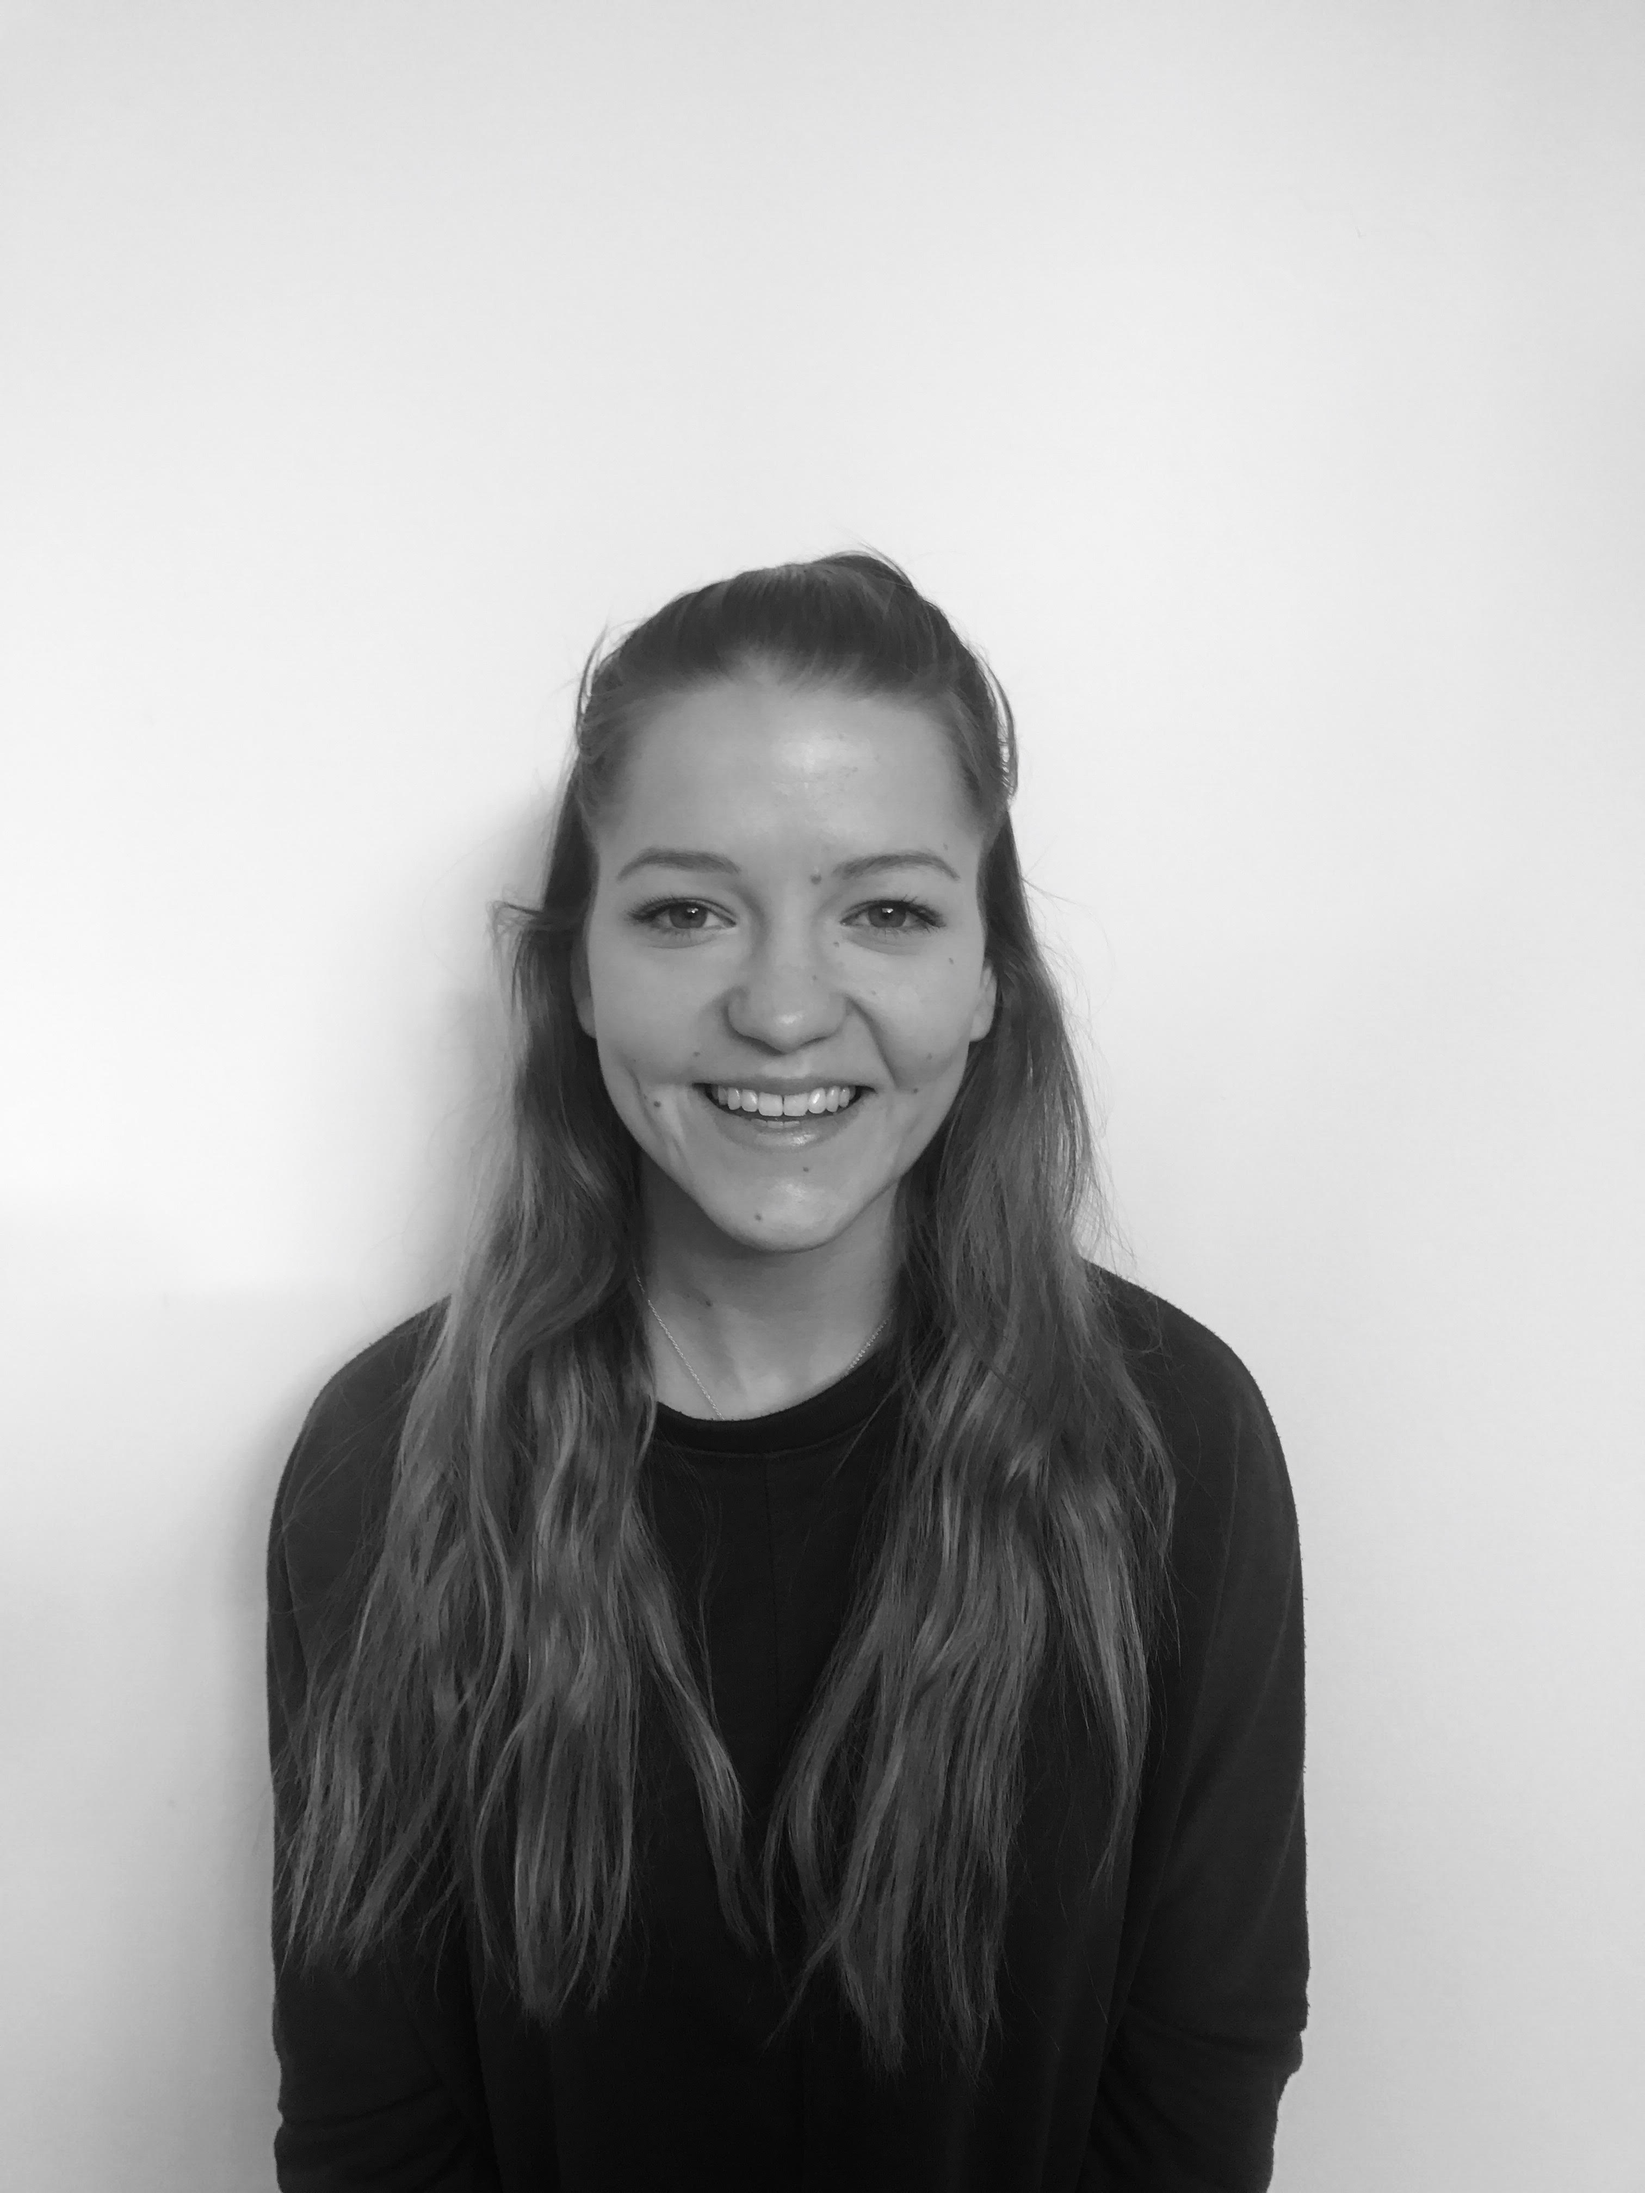
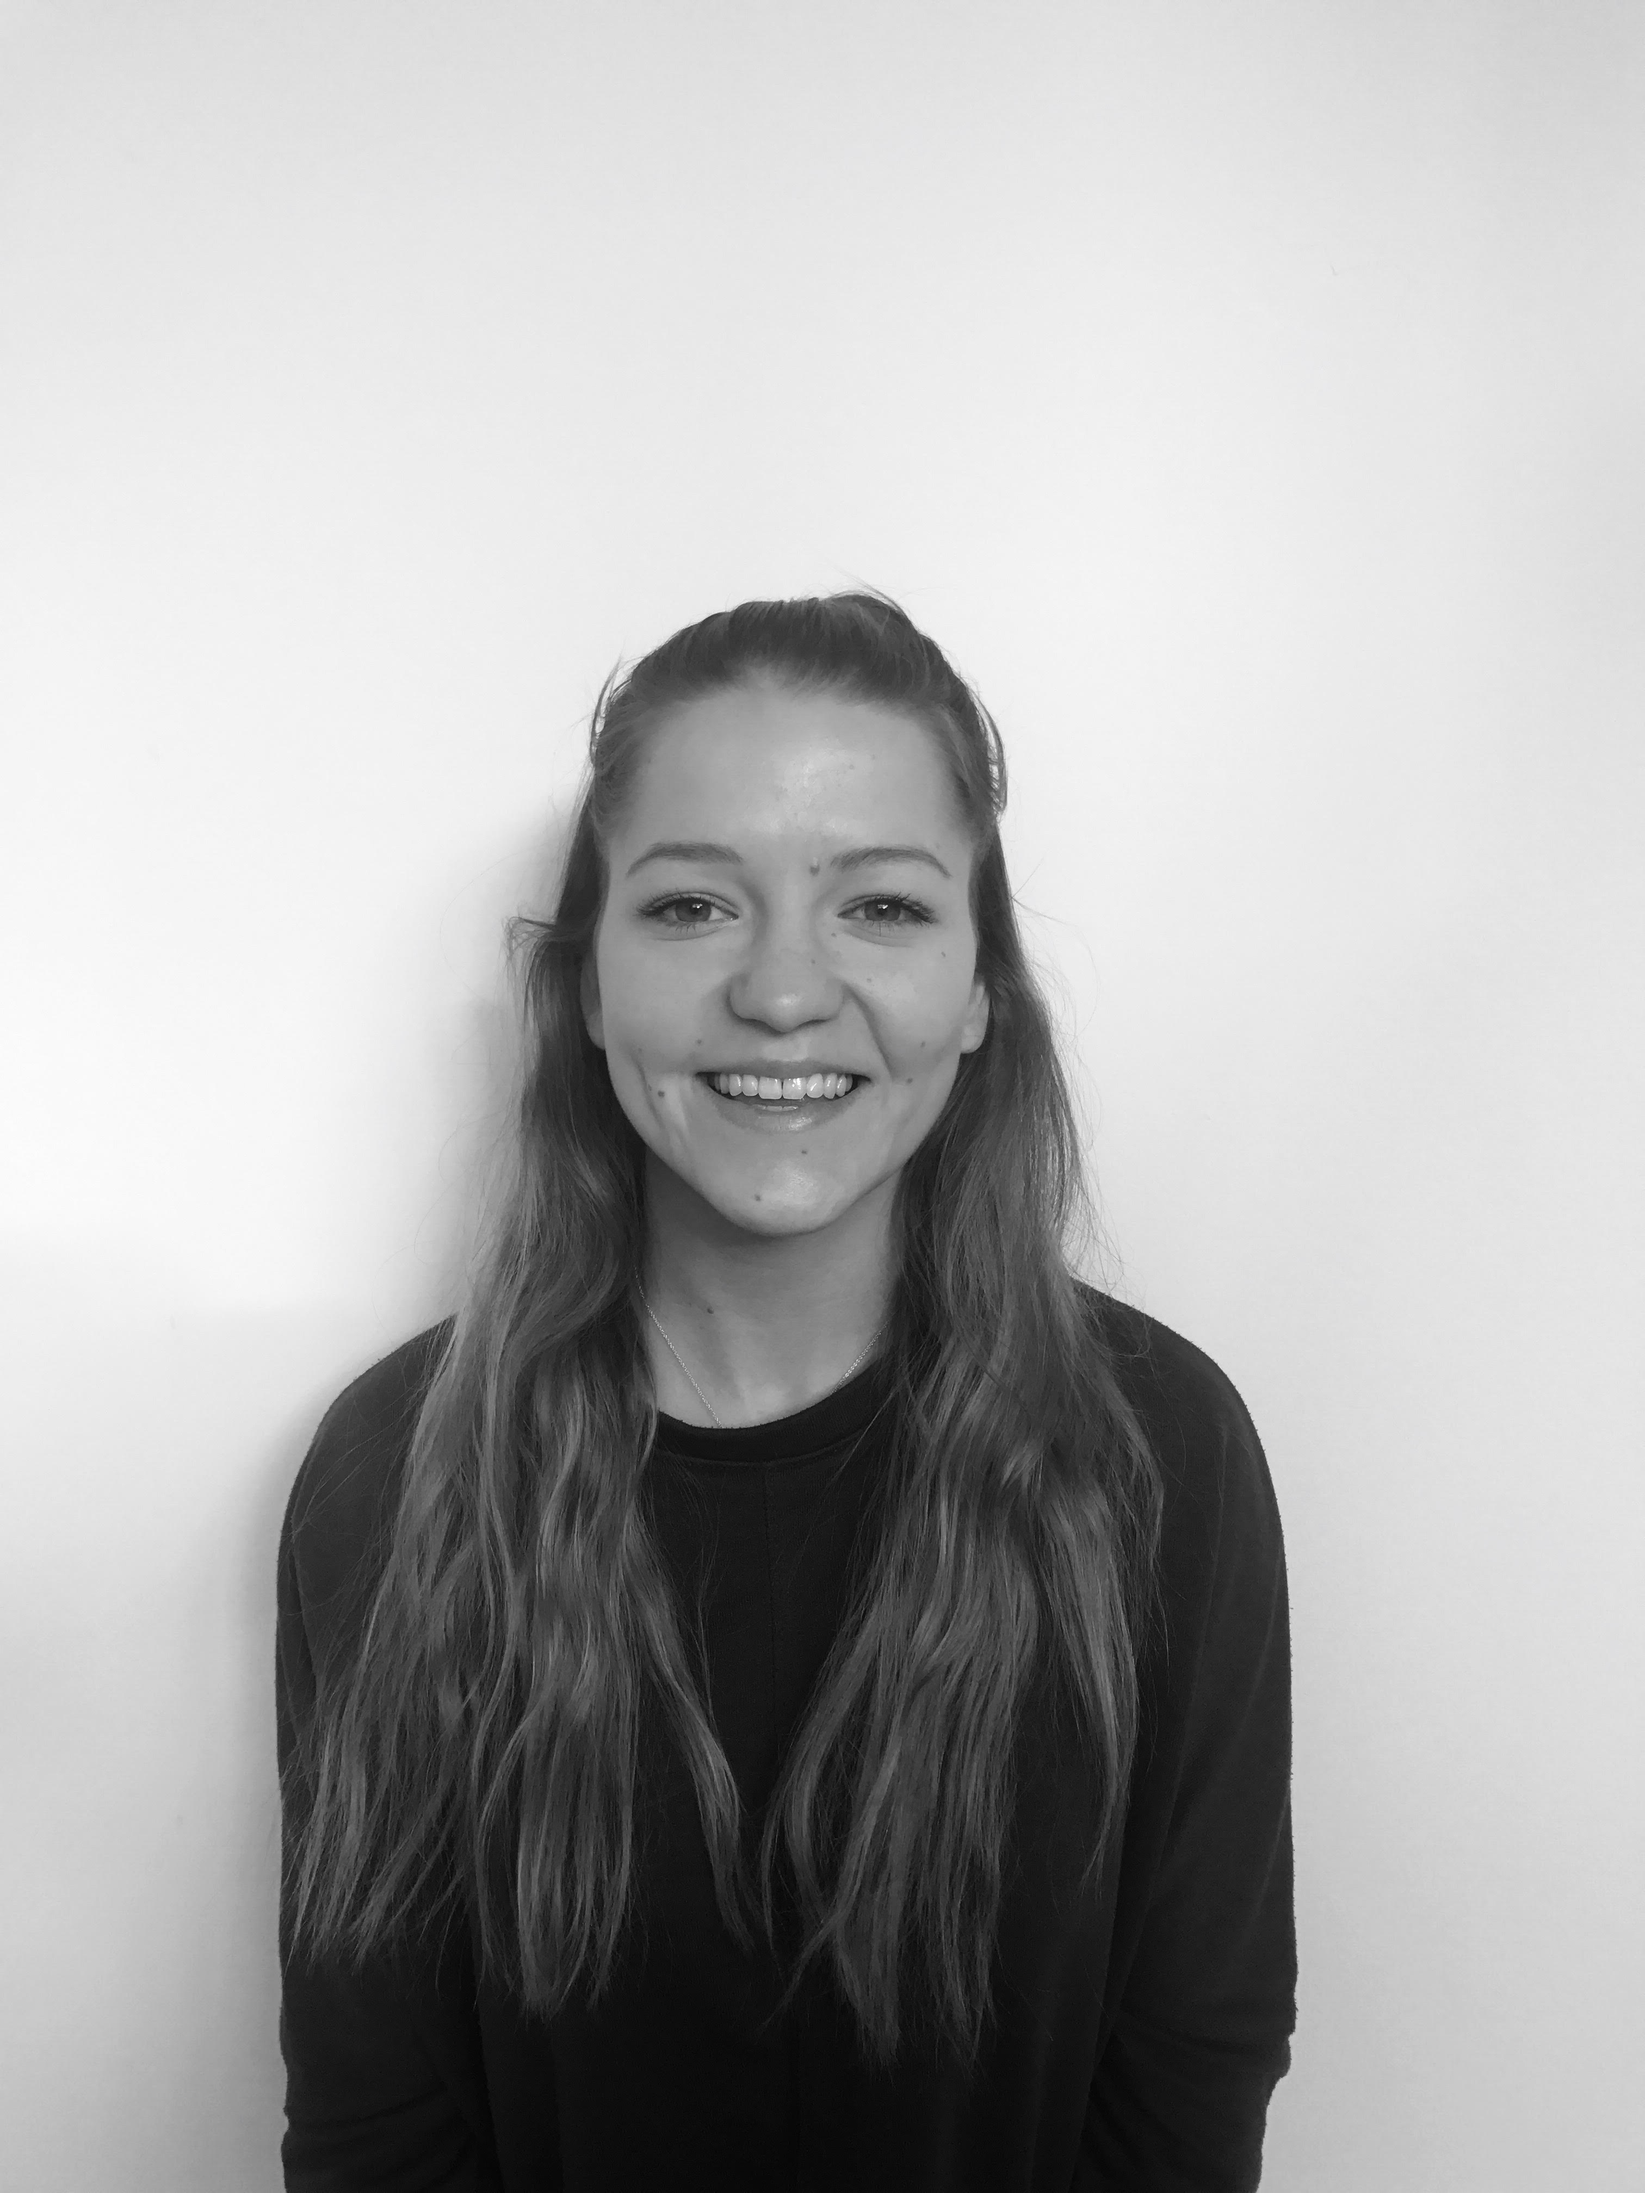
Add files via upload

diff --git a/viki2.html b/viki2.html
@@ -15,8 +15,8 @@
 			<ul>
 				<li><a href="try.html" title="">Home</a></li>
 				<li><a href="viki2.html" title="">Viktoria</a></li>
-				<li><a href="#" title="">Lorand</a></li>
-				<li><a href="#" title="">Tanja</a></li>
+				<li><a href="lorand.html" title="">Lorand</a></li>
+				<li><a href="tanja1.html" title="">Tanja</a></li>
 				<li><a href="#" title="">Atra</a></li>
 				<li><a href="contact2.html" title="">Contact</a>
 				</li>
@@ -27,9 +27,9 @@
 
 	<section id="vikisection">
 		<div id="images">
-			<img src="1.jpg"><br>
-			<img src="1.jpg"><br>
-			<img src="1.jpg">
+			<img src="vikiphoto2.jpg"  ><br>
+			<img src="vikiphoto1.jpg"  ><br>
+			<img src="vikiphoto3.jpg" >
 		</div>
 		
 		<div id="vikiinfo">
@@ -38,8 +38,13 @@
 			    <p><b>Born:</b> 1995</p>
 			    <p><b>Origin:</b> Vienna, Austria</p>
 			    <p>After graduating from Vienna International School, I went on to study film, media and sports studies at Stirling University in Scotland, as this was my passion since I was young; film and sports. During my time at university I joined multiple sports clubs including Muay Thai, Gaelic Football and Dance and had a radio show at Air3Radio. What was important was to build my CV, so I acquired two internships; one in Salzburg for MediaHaus and another in London for Turner Broadcasting, in which I gained a lot of experience in the field and further developed my creative passion. </p> 
-		     	<p>During my last year at university I became aware of another interest I had which was sparked by a growing friendship with computer science students; computers, programming, blockchains and cryptocurrencies. Since then I have become more involved and technology minded, which is the field I would like to work in. I would like to keep up to date and involved in this rapidly evolving field and hope that this course will be the first step.</p>
-		    </div>
+		     	<p>During my last year at university I became aware of another interest I had which was sparked by a growing friendship with computer science students; computers, programming, blockchains and cryptocurrencies. Since then I have become more involved and technology minded, which is the field I would like to work in. Other than that I just love to travel and spend alot of time outside the country.</p>
+
+		   <object width="420" height="315"
+				data="https://www.youtube.com/embed/efgIm9YPZvE">
+			</object>
+
+		    </div> 
 
 	</section>
 	<footer>
@@ -47,5 +52,6 @@
 		<p> &copy All Right Reserved CodeFactory</p>
 		
 	</footer>
+	
 </body>
 </html>

diff --git a/try.css b/try.css
@@ -24,7 +24,8 @@ codefactoryRED: #821418*/
 	height: 50px;
 	padding-top: 25px;
 	padding-left: 20px;
-		border-bottom: solid 1px #821418;
+	border-bottom: solid 1px #821418;
+
 }
 
 #teamname{
@@ -42,6 +43,8 @@ nav{
 nav input{
 	float: right;
 	margin-right: 30px;
+	border-radius: 5px;
+	height: 15px;
 
 }
 
@@ -72,10 +75,11 @@ a:visited{
 	text-align: center;
 	color: white;
 	text-shadow: 1px 1px 1px black;
-	padding-top: 140px;
+	padding-top: 200px;
 	padding-left: 140px;
 	padding-right: 140px;
 }
+
 #teamtext2{
 	font-size: 25px;
 	text-align: center;
@@ -83,18 +87,19 @@ a:visited{
 	text-shadow: 1px 1px 1px black;
 	padding-bottom: 130px;
 }
+
 #allimages{
 	display: flex;
 	flex-wrap: wrap;
 	text-align: center;
 	width: 100%;
 	justify-content: space-around;
-	
+	background: rgba(0, 0, 0, 0) url("teambg.jpg") no-repeat scroll center center / cover;
 }
+
 #allimages img{
-	width: 160px;
-	height: 200px;
-	
+	border-radius: 50%;
+	max-width: 200px;
 
 
 }
@@ -103,9 +108,9 @@ a:visited{
 #vikisection{
 	padding-bottom: 50px;
 	background-color: black;
-	display: inline-flex;
-	flex-wrap: wrap;
+	display: flex;
 	width: 100%;
+	text-align: center;
 
 }
 
@@ -113,7 +118,7 @@ a:visited{
 	text-align: center;
 	color: #821418;
 	padding-top: 50px;
-	padding-bottom: 30px;
+	padding-bottom: 20px;
 	font-size: 30px;
 
 }
@@ -123,6 +128,10 @@ a:visited{
 	border: solid;
 	width: 700px;
 	color: #99B1C3;	
+	flex: 1;
+	padding-right: 30px;
+	padding-left:30px;
+	padding-bottom: 30px;
 
 }
 #vikiinfo{
@@ -131,20 +140,21 @@ a:visited{
 
 #vikitext p{
 	padding: 10px;
+	padding-bottom: 15px;
 }
 #vikisection img{
-	width: 170px;
-	height: 170px;
+	flex: 1;
 	padding-top: 10px;
 }
 img{
-	padding-left: 30px;
-
+	padding-left: 50px;
+	padding-right: 30px;
+	width: 250px;
 }
 /*---------------CONTACT PAGE----------------*/
 #Contact{
-	background-color: black;
-	padding-left: 90px;
+	background-color: #B8B9BC;
+	padding-left: 100px;
 	font-size: 20px;
 	font-weight: 100;
 	text-align: center;
@@ -153,6 +163,7 @@ img{
 #contacttext{
 	float: left;
 	color: white;
+	padding-right: 100px;
 
 }
 
@@ -164,9 +175,10 @@ img{
 	text-shadow: .4px 1px .2px grey;
 }
 
-img {
-	padding: 20px;
+#mapcontainer {
+	padding: 50px;
 }
+
 /*---------------FOOTER-------------------*/
 footer{
 	background-color:#821418 ;

diff --git a/try.html b/try.html
@@ -15,8 +15,8 @@
 				<ul>
 					<li><a href="try.html" title="">Home</a></li>
 					<li><a href="viki2.html" title="">Viktoria</a></li>
-					<li><a href="#" title="">Lorand</a></li>
-					<li><a href="#" title="">Tanja</a></li>
+					<li><a href="lorand.html" title="">Lorand</a></li>
+					<li><a href="tanja1.html" title="">Tanja</a></li>
 					<li><a href="#" title="">Atra</a></li>
 					<li><a href="contact2.html" title="">Contact</a>
 					</li>
@@ -34,27 +34,27 @@
 	</div>
 
 	<div id="allimages">
-		<a href="viki1.html">
+		<a href="viki2.html">
 			<div class="profile"> 
 				<img src="viki1.jpg" alt="smiley">
-				<p>NAME</p>
+				<p>Viktoria</p>
 			</div>
 		</a>
-		<a href="#">
+		<a href="lorand.html">
 		<div class="profile"> 
-			<img src="tanja1.jpg" alt="smiley">
-			<p>NAME</p>
+			<img src="lorand1.jpg" alt="smiley">
+			<p>Lorand</p>
 		</div>
 		</a>
-		<a href="#">
+		<a href="tanja1.html">
 		<div class="profile">
-			<img src="lorand1.jpg" alt="smiley">
-			<p>NAME</p>
+			<img src="tanja1.jpg" alt="smiley">
+			<p>Tanja</p>
 		 </div>
 		 </a>
 		 <a href="#">
 		<div class="profile"> <img src="atra1.jpg" alt="smiley">
-			<p>NAME</p>
+			<p>Atra</p>
 		</div>
 		</a>
 	</div>

diff --git a/contact2.html b/contact2.html
@@ -31,9 +31,23 @@
 			<p>Address: Kettenbrückengasse 23, 1050 Wien</p>
 			<p>Telephone Number: +436606673655</p>
 			<p>Email: office@codefactory.wien</p>
+
 		</div>	
-		<div id="map">
-			<img  src="map.png" alt="map" height=380px; width=360px;>
+
+		<div id="mapcontainer">
+			<div id="map" style="height:370px; width:370px;"> 
+				
+				<script>
+				function myMap() {
+				  var mapCanvas = document.getElementById("map");
+				  var mapOptions = {
+				    center: new google.maps.LatLng(48.1964434, 16.3594155000), zoom: 10
+				  };
+				  var map = new google.maps.Map(mapCanvas, mapOptions);
+				}
+				</script>
+				<script src="https://maps.googleapis.com/maps/api/js?key=AIzaSyD7GfQPH5bkm_RmlC6FfSCM3AbtwMVXfXU&callback=myMap"></script>
+			</div>
 		</div>
 		
 
